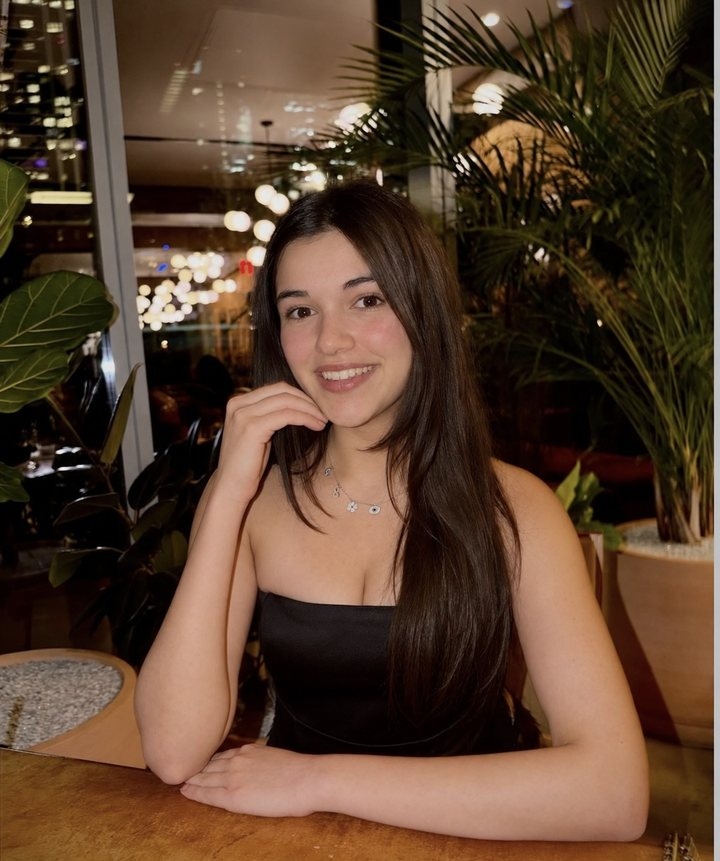
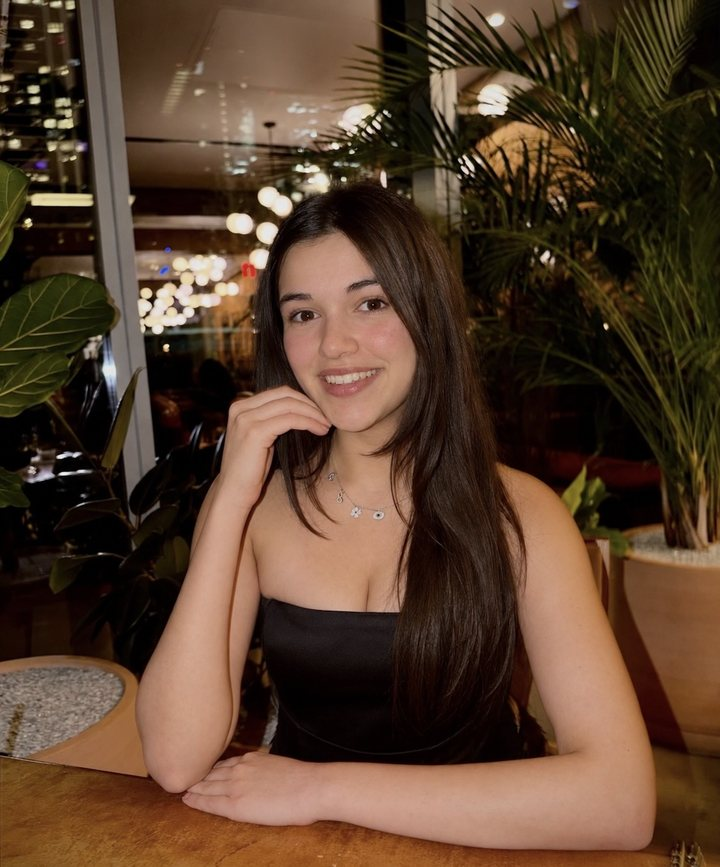
T.D. looks like the real one, seamless makeup before/after with a zoom wand, real sunglasses photo
- T.D. redrawn from photos: fluffy tufted honey-gold coat, beige felt ears, muzzle and pads, little brown bow
- Makeup before/after: the glam shot is scaled to match exactly, so only the makeup changes
- A second wand zooms in on my face and back out
- Sunglasses use the real Chanel photo instead of the drawing

diff --git a/items.js b/items.js
@@ -341,15 +341,7 @@ window.ITEMS = [
     },
     {
         id: 'sunglasses', name: 'my chanel sunglasses', zip: 'shades', l: 84.6, t: 3.8, w: 13.2, r: -6,
-        art: `<svg viewBox="0 0 250 106"><defs><linearGradient id="lens2" x1="0" y1="0" x2="0" y2="1"><stop offset="0" stop-color="#2E1812"/><stop offset=".5" stop-color="#5E3020"/><stop offset="1" stop-color="#B26E48"/></linearGradient></defs>
-            <!-- square black frames, a thin cream edge all the way round, brown gradient lenses, the cream CC on each arm -->
-            <path d="M8 18 Q8 10 16 10 H104 Q112 10 112 18 V86 Q112 96 102 96 H18 Q8 96 8 86Z" fill="#EFE3CF" stroke="#3A2626" stroke-width="1.6"/><path d="M138 18 Q138 10 146 10 H234 Q242 10 242 18 V86 Q242 96 232 96 H148 Q138 96 138 86Z" fill="#EFE3CF" stroke="#3A2626" stroke-width="1.6"/>
-            <path d="M106 18 Q125 30 144 18 V54 Q125 46 106 54Z" fill="#EFE3CF" stroke="#3A2626" stroke-width="1.6"/>
-            <g fill="#141010"><path d="M8 18 Q8 10 16 10 H104 Q112 10 112 18 V86 Q112 96 102 96 H18 Q8 96 8 86Z" transform="translate(60 53) scale(.955 .94) translate(-60 -53)"/><path d="M138 18 Q138 10 146 10 H234 Q242 10 242 18 V86 Q242 96 232 96 H148 Q138 96 138 86Z" transform="translate(190 53) scale(.955 .94) translate(-190 -53)"/><path d="M104 22 Q125 34 146 22 V51 Q125 44 104 51Z"/></g>
-            <path d="M23 30 Q23 24 29 24 H91 Q97 24 97 30 V76 Q97 82 91 82 H29 Q23 82 23 76Z" fill="url(#lens2)"/><path d="M153 30 Q153 24 159 24 H221 Q227 24 227 30 V76 Q227 82 221 82 H159 Q153 82 153 76Z" fill="url(#lens2)"/>
-            <g transform="translate(16 20)"><g fill="none" stroke="#EFE3CF" stroke-width="2" stroke-linecap="round"><path d="M-1 -4 A4.2 4.2 0 1 0 -1 4"/><path d="M1 -4 A4.2 4.2 0 1 1 1 4"/></g></g><g transform="translate(234 20)"><g fill="none" stroke="#EFE3CF" stroke-width="2" stroke-linecap="round"><path d="M-1 -4 A4.2 4.2 0 1 0 -1 4"/><path d="M1 -4 A4.2 4.2 0 1 1 1 4"/></g></g>
-            <path d="M28 30 L56 30 L38 52Z M158 30 L186 30 L168 52Z" fill="#fff" opacity=".12"/>
-            <path d="M16 16 Q40 13 74 14 M146 16 Q170 13 204 14" stroke="#fff" stroke-width="2" fill="none" opacity=".22" stroke-linecap="round"/></svg>`,
+        art: `<img src="assets/img/sunglasses.png" alt="" draggable="false" style="display:block; width:100%; height:auto">`,
         open: 'sunglasses'
     },
     {
@@ -538,20 +530,19 @@ window.ITEMS = [
     },
     {
         id: 'bear', name: 'T.D., my teddy bear', zip: 'main', l: 0, t: 0, w: 19, r: -6,
-        art: `<svg viewBox="0 0 200 222"><defs><radialGradient id="td-coat" cx=".38" cy=".3" r=".8"><stop offset="0" stop-color="#F0C98C"/><stop offset=".55" stop-color="#D8A564"/><stop offset="1" stop-color="#B9823F"/></radialGradient></defs>
-            <!-- T.D.: smooth and polished, one clean outline around the whole bear -->
-            <g id="td-shape"><circle cx="54" cy="40" r="19"/><circle cx="146" cy="40" r="19"/><ellipse cx="44" cy="146" rx="20" ry="34" transform="rotate(32 44 146)"/><ellipse cx="158" cy="140" rx="20" ry="34" transform="rotate(-40 158 140)"/><ellipse cx="100" cy="160" rx="54" ry="48"/><ellipse cx="66" cy="194" rx="25" ry="22"/><ellipse cx="138" cy="190" rx="25" ry="22"/><circle cx="100" cy="80" r="54"/></g>
-            <use href="#td-shape" fill="#D8A564" stroke="#3A2626" stroke-width="5"/><use href="#td-shape" fill="url(#td-coat)"/>
-            <circle cx="54" cy="40" r="10" fill="#E9DCC6"/><circle cx="146" cy="40" r="10" fill="#E9DCC6"/>
-            <path d="M58 142 q10 6 18 2 M142 136 q-10 6 -18 2" fill="none" stroke="#B9823F" stroke-width="2" stroke-linecap="round" opacity=".7"/>
-            <ellipse cx="62" cy="198" rx="16" ry="14" fill="#E9DCC6" stroke="#B9823F" stroke-width="1.6"/><ellipse cx="142" cy="194" rx="16" ry="14" fill="#E9DCC6" stroke="#B9823F" stroke-width="1.6"/>
-            <ellipse cx="100" cy="98" rx="26" ry="18" fill="#EFE3CF" stroke="#B9823F" stroke-width="1.6"/>
-            <ellipse cx="100" cy="89" rx="7" ry="6" fill="#1A1210"/><ellipse cx="98" cy="87" rx="2.4" ry="1.4" fill="#fff" opacity=".6"/>
-            <path d="M100 95 v8 M88 104 q12 9 24 0" fill="none" stroke="#1A1210" stroke-width="2.2" stroke-linecap="round"/>
-            <circle cx="83" cy="70" r="5" fill="#120C0A"/><circle cx="117" cy="70" r="5" fill="#120C0A"/><circle cx="84.6" cy="68.4" r="1.5" fill="#fff"/><circle cx="118.6" cy="68.4" r="1.5" fill="#fff"/>
-            <ellipse cx="74" cy="90" rx="7" ry="4" fill="#F2A7A0" opacity=".35"/><ellipse cx="126" cy="90" rx="7" ry="4" fill="#F2A7A0" opacity=".35"/>
-            <path d="M68 46 q12 -14 30 -14" fill="none" stroke="#FFF3DC" stroke-width="5" stroke-linecap="round" opacity=".45"/><path d="M62 132 q4 -10 14 -14" fill="none" stroke="#FFF3DC" stroke-width="4" stroke-linecap="round" opacity=".35"/>
-            <path d="M100 122 c-14 -10 -24 -4 -22 4 c2 8 12 8 22 -4 c10 12 20 12 22 4 c2 -8 -8 -14 -22 -4z" fill="#4A2A1C" stroke="#2A1610" stroke-width="1.4"/><circle cx="100" cy="122" r="4" fill="#3A2016"/><path d="M98 125 l-6 14 M102 125 l6 13" stroke="#4A2A1C" stroke-width="4" stroke-linecap="round"/></svg>`,
+        art: `<svg viewBox="0 0 200 222"><defs><radialGradient id="td-coat" cx=".4" cy=".3" r=".85"><stop offset="0" stop-color="#EDC487"/><stop offset=".6" stop-color="#D6A465"/><stop offset="1" stop-color="#B9864A"/></radialGradient></defs>
+            <!-- T.D., from the real one: shaggy honey-gold coat (clean tufted edge), beige felt ears, muzzle and foot pads, little brown bow -->
+            <ellipse cx="50" cy="34" rx="17" ry="18" fill="#E2D2BC" stroke="#3A2626" stroke-width="4"/><ellipse cx="150" cy="34" rx="17" ry="18" fill="#E2D2BC" stroke="#3A2626" stroke-width="4"/>
+            <g id="td-shape"><path d="M63.6 157.8 Q64.1 165.9 54.0 162.6 Q49.0 167.6 41.1 161.9 Q32.6 164.3 28.5 155.9 Q19.3 153.4 19.5 146.2 Q10.5 140.4 16.6 135.3 Q12.3 127.8 20.4 126.2 Q19.9 118.1 30.0 121.4 Q35.0 116.4 42.9 122.1 Q51.4 119.7 55.5 128.1 Q64.7 130.6 64.5 137.8 Q73.5 143.6 67.4 148.7 Q71.7 156.2 63.6 157.8Z"/><path d="M183.4 134.9 Q188.8 140.4 179.5 145.7 Q179.0 153.2 169.8 155.1 Q165.0 163.3 156.9 160.4 Q148.7 165.6 144.4 160.2 Q134.2 162.9 135.4 154.6 Q127.7 152.5 132.6 145.1 Q127.2 139.6 136.5 134.3 Q137.0 126.8 146.2 124.9 Q151.0 116.7 159.1 119.6 Q167.3 114.4 171.6 119.8 Q181.8 117.1 180.6 125.4 Q188.3 127.5 183.4 134.9Z"/><path d="M152.0 160.0 Q160.8 167.1 150.2 171.9 Q154.3 179.9 145.0 183.0 Q148.7 193.0 136.8 192.5 Q135.8 201.2 126.0 199.8 Q123.5 210.1 113.5 204.4 Q107.7 211.5 100.0 206.0 Q92.0 213.8 86.5 204.4 Q77.5 208.0 74.0 199.8 Q62.6 203.1 63.2 192.5 Q53.4 191.6 55.0 183.0 Q43.3 180.8 49.8 171.9 Q41.7 166.8 48.0 160.0 Q39.2 152.9 49.8 148.1 Q45.7 140.1 55.0 137.0 Q51.3 127.0 63.2 127.5 Q64.2 118.8 74.0 120.2 Q76.5 109.9 86.5 115.6 Q92.3 108.5 100.0 114.0 Q108.0 106.2 113.5 115.6 Q122.5 112.0 126.0 120.2 Q137.4 116.9 136.8 127.5 Q146.6 128.4 145.0 137.0 Q156.7 139.2 150.2 148.1 Q158.3 153.2 152.0 160.0Z"/><path d="M88.7 193.6 Q93.4 200.1 85.2 203.2 Q85.4 210.2 77.6 211.0 Q75.2 218.6 67.4 215.4 Q61.7 220.5 56.2 215.8 Q48.3 219.6 46.0 212.1 Q38.3 211.9 38.6 204.9 Q30.5 202.3 35.2 195.5 Q30.5 190.1 36.5 185.5 Q33.5 178.2 42.2 176.6 Q43.6 169.6 51.3 170.4 Q55.4 163.2 62.2 167.9 Q68.9 163.9 73.1 169.6 Q81.7 167.3 82.1 175.2 Q89.6 176.8 87.6 183.6 Q94.9 187.7 88.7 193.6Z"/><path d="M165.8 195.9 Q169.1 203.4 160.5 204.5 Q159.3 211.4 151.6 210.2 Q147.8 217.2 140.7 212.1 Q134.3 215.7 129.7 209.8 Q121.3 211.7 120.5 203.8 Q113.0 201.7 114.7 195.0 Q107.2 190.5 113.2 185.0 Q109.6 178.6 116.4 175.5 Q114.8 167.7 123.6 168.2 Q126.3 161.7 133.7 164.3 Q139.1 158.3 144.9 164.5 Q152.1 162.2 155.2 168.8 Q164.0 168.6 162.9 176.4 Q169.9 179.8 166.6 186.0 Q173.0 191.7 165.8 195.9Z"/><path d="M159.7 85.4 Q168.7 92.8 157.2 96.4 Q161.5 104.3 152.1 106.8 Q157.0 116.9 144.8 115.9 Q145.2 124.8 135.5 123.5 Q135.4 134.6 124.7 129.2 Q121.1 137.4 112.8 132.8 Q107.7 142.8 100.3 134.0 Q93.3 140.2 87.8 132.9 Q78.6 140.2 75.9 129.4 Q66.7 132.5 65.0 123.8 Q53.3 127.2 55.6 116.3 Q45.8 115.8 48.2 107.2 Q36.0 106.0 43.0 96.9 Q34.3 92.9 40.4 85.9 Q29.8 80.3 40.3 74.6 Q34.2 67.7 42.8 63.6 Q35.7 54.6 47.9 53.2 Q45.4 44.7 55.2 44.1 Q52.8 33.2 64.5 36.5 Q66.1 27.8 75.3 30.8 Q78.0 20.0 87.2 27.2 Q92.7 19.9 99.7 26.0 Q107.0 17.1 112.2 27.1 Q120.5 22.4 124.1 30.6 Q134.8 25.1 135.0 36.2 Q144.7 34.9 144.4 43.7 Q156.6 42.6 151.8 52.8 Q161.3 55.1 157.0 63.1 Q168.6 66.6 159.6 74.1 Q167.2 79.7 159.7 85.4Z"/></g>
+            <use href="#td-shape" fill="#D6A465" stroke="#3A2626" stroke-width="5" stroke-linejoin="round"/><use href="#td-shape" fill="url(#td-coat)"/>
+            <g fill="none" stroke="#B9864A" stroke-width="1.8" stroke-linecap="round" opacity=".55"><path d="M70 44 q4 -6 8 -3"/><path d="M96 32 q4 -7 8 -4"/><path d="M122 40 q4 -6 8 -3"/><path d="M64 64 q-4 -4 -8 -1"/><path d="M134 62 q4 -4 8 -1"/><path d="M80 146 q4 -5 8 -2"/><path d="M110 140 q4 -5 8 -2"/><path d="M96 168 q4 -5 8 -2"/><path d="M124 170 q4 -5 8 -2"/><path d="M74 176 q4 -4 8 -1"/><path d="M24 132 q4 -4 8 -1"/><path d="M160 128 q4 -4 8 -1"/><path d="M46 138 q4 -5 8 -2"/></g>
+            <ellipse cx="58" cy="196" rx="16" ry="19" fill="#E2D2BC" stroke="#C4B095" stroke-width="1.6" transform="rotate(-14 58 196)"/><ellipse cx="144" cy="192" rx="16" ry="19" fill="#E2D2BC" stroke="#C4B095" stroke-width="1.6" transform="rotate(14 144 192)"/>
+            <ellipse cx="100" cy="99" rx="27" ry="20" fill="#E8DAC6" stroke="#C4B095" stroke-width="1.6"/>
+            <path d="M93 89 q7 -3 14 0 q-1 7 -7 10 q-6 -3 -7 -10z" fill="#1E1614"/><path d="M96 89.6 q3 -1 5 0" stroke="#fff" stroke-width="1.2" stroke-linecap="round" opacity=".5"/>
+            <path d="M100 99 v5 M86 102 q14 11 28 0" fill="none" stroke="#1E1614" stroke-width="2" stroke-linecap="round"/>
+            <circle cx="85" cy="76" r="4.6" fill="#120C0A"/><circle cx="115" cy="76" r="4.6" fill="#120C0A"/><circle cx="86.4" cy="74.6" r="1.4" fill="#fff"/><circle cx="116.4" cy="74.6" r="1.4" fill="#fff"/>
+            <path d="M74 50 q12 -12 28 -13" fill="none" stroke="#FFF1D6" stroke-width="7" stroke-linecap="round" opacity=".18"/>
+            <g transform="translate(102 125) scale(1.35) rotate(-8) translate(-102 -124)"><path d="M102 124 c-10 -8 -18 -3 -16 3 c2 6 10 6 16 -3 c6 9 14 9 16 3 c2 -6 -6 -11 -16 -3z" fill="#4B2E24" stroke="#2A1610" stroke-width="1.3"/><circle cx="102" cy="124" r="3.2" fill="#3A2018"/><path d="M100 126 l-4 9 M104 126 l4 8" stroke="#4B2E24" stroke-width="3.2" stroke-linecap="round"/></g></svg>`,
         open: 'bear'
     },
     {

diff --git a/app.js b/app.js
@@ -1438,7 +1438,8 @@ const VIEWS = {
                 <span class="bbb-tag mono" id="bbb-tag">before</span>
                 <div class="bbb-dust" id="bbb-dust" aria-hidden="true"></div>
             </div>
-            <button type="button" class="btn solid bbb-wand" id="bbb-wand"><svg viewBox="0 0 24 24" aria-hidden="true"><path d="M4 20 L14 10" stroke="currentColor" stroke-width="2.4" stroke-linecap="round"/><path d="M17 3 l1.1 2.9 2.9 1.1 -2.9 1.1 -1.1 2.9 -1.1 -2.9 -2.9 -1.1 2.9 -1.1Z" fill="currentColor"/></svg><span id="bbb-word">bibbidi bobbidi boo</span></button>
+            <div class="bbb-btns"><button type="button" class="btn solid bbb-wand" id="bbb-wand"><svg viewBox="0 0 24 24" aria-hidden="true"><path d="M4 20 L14 10" stroke="currentColor" stroke-width="2.4" stroke-linecap="round"/><path d="M17 3 l1.1 2.9 2.9 1.1 -2.9 1.1 -1.1 2.9 -1.1 -2.9 -2.9 -1.1 2.9 -1.1Z" fill="currentColor"/></svg><span id="bbb-word">bibbidi bobbidi boo</span></button>
+            <button type="button" class="btn bbb-zoom" id="bbb-zoom" aria-pressed="false"><svg viewBox="0 0 24 24" aria-hidden="true"><path d="M4 20 L14 10" stroke="currentColor" stroke-width="2.4" stroke-linecap="round"/><path d="M17 3 l1.1 2.9 2.9 1.1 -2.9 1.1 -1.1 2.9 -1.1 -2.9 -2.9 -1.1 2.9 -1.1Z" fill="currentColor"/></svg><span id="bbb-zword">zoom in</span></button></div>
             <p class="bbb-cap hand" aria-live="polite">pretty both ways, right?</p>
         </div>
 `,
@@ -1919,11 +1920,14 @@ function cardHTML(c, i) {
 /* ---------- what happens right after something opens ---------- */
 const AFTER = {
     haircomb: () => {
-        // drag the comb down: everything above it is combed, everything below is still frizz
+        // drag the comb down: everything above it is combed, everything below is still frizz.
+        // the comb only goes one way: combed hair never frizzes back up
         const hair = $('#hair'), comb = $('#hair-comb');
-        let done = false, drag = false;
+        let done = false, drag = false, combed = 0;
         const set = f => {
-            f = Math.max(0, Math.min(1, f));
+            f = Math.max(combed, Math.max(0, Math.min(1, f)));
+            if (f > .97) f = 1;
+            combed = f;
             hair.style.setProperty('--comb', f);
             $('#hair-tag').textContent = f > .97 ? 'after' : f < .03 ? 'before' : 'combing…';
             if (f > .97 && !done) { done = true; $('#hair-note').textContent = 'see? smooth. the comb stays in the bag.'; $('#hair-braid').hidden = false; }
@@ -1935,7 +1939,7 @@ const AFTER = {
         const end = () => { drag = false; hair.classList.remove('dragging'); };
         hair.addEventListener('pointerup', end); hair.addEventListener('pointercancel', end);
         comb.onkeydown = e => { if (e.key === 'ArrowDown' || e.key === 'ArrowUp') { e.preventDefault(); set((+hair.style.getPropertyValue('--comb') || 0) + (e.key === 'ArrowDown' ? .1 : -.1)); } };
-        comb.onclick = e => { if (e.detail) return; set((+hair.style.getPropertyValue('--comb') || 0) > .5 ? 0 : 1); };
+        comb.onclick = e => { if (e.detail) return; set(1); };
         // combed out, then one long braid for bed. while it's braided the comb stays put.
         $('#hair-braid').onclick = () => {
             const on = hair.classList.toggle('braided');
@@ -2634,6 +2638,12 @@ const AFTER = {
         });
         // bibbidi bobbidi boo: a wave of the wand, a burst of sparkles, and everything in the pouch is on. wave again to take it off.
         const bbb = $('#bbb'), dust = $('#bbb-dust');
+        // the second wand zooms in on my face so you can actually see the makeup, then back out
+        if (bbb) $('#bbb-zoom').onclick = () => {
+            const z = bbb.classList.toggle('zoom');
+            $('#bbb-zword').textContent = z ? 'zoom out' : 'zoom in';
+            $('#bbb-zoom').setAttribute('aria-pressed', z);
+        };
         if (bbb) $('#bbb-wand').onclick = () => {
             const on = bbb.classList.toggle('after');
             $('#bbb-tag').textContent = on ? 'after' : 'before';

diff --git a/style.css b/style.css
@@ -2388,7 +2388,7 @@ dialog.sheet:has(.skin-layout) { width: min(1180px, calc(100vw - 24px)); }
 
 /* makeup pouch: bibbidi bobbidi boo, before and after */
 .bbb { display: flex; flex-direction: column; align-items: center; gap: 14px; margin: 4px auto 8px; }
-.bbb-photo { position: relative; width: min(300px, 82%); aspect-ratio: 720 / 861; border-radius: 18px; overflow: hidden; border: 3px solid var(--ink); box-shadow: 6px 6px 0 var(--rose); background: var(--plum-deep); }
+.bbb-photo { position: relative; width: min(300px, 82%); aspect-ratio: 720 / 867; border-radius: 18px; overflow: hidden; border: 3px solid var(--ink); box-shadow: 6px 6px 0 var(--rose); background: var(--plum-deep); }
 .bbb-photo img { position: absolute; inset: 0; width: 100%; height: 100%; object-fit: cover; transition: opacity .5s .25s, filter .5s .25s; }
 .bbb-after { opacity: 0; }
 .bbb.after .bbb-after { opacity: 1; }
@@ -2403,7 +2403,10 @@ dialog.sheet:has(.skin-layout) { width: min(1180px, calc(100vw - 24px)); }
     25% { opacity: 1; }
     100% { opacity: 0; transform: translate(calc(var(--x) * 3), calc(var(--y) * 3)) scale(var(--s)) rotate(180deg); }
 }
-.bbb-wand { display: inline-flex; align-items: center; gap: 8px; }
+.bbb-wand, .bbb-zoom { display: inline-flex; align-items: center; gap: 8px; }
+.bbb-zoom svg { width: 16px; height: 16px; }
+.bbb-photo img { transform-origin: 48% 37%; transition: opacity .5s .25s, filter .5s .25s, transform .8s var(--ease); }
+.bbb.zoom .bbb-photo img { transform: scale(2.4); }
 .bbb-wand svg { width: 18px; height: 18px; transition: transform .4s var(--ease); }
 .bbb-wand:hover svg, .bbb.poof .bbb-wand svg { transform: rotate(-24deg); }
 .bbb-cap { margin: 0; font-size: 1.6rem; color: var(--plum); text-align: center; }
@@ -2423,3 +2426,4 @@ dialog.sheet:has(.skin-layout) { width: min(1180px, calc(100vw - 24px)); }
 .hair.braided .hair-comb { opacity: 0; pointer-events: none; }
 .hair-comb { transition: top .5s var(--ease), opacity .4s; }
 .hair-tag { position: absolute; left: 10px; top: 10px; padding: 3px 9px; border-radius: 99px; background: rgba(255, 251, 248, .88); color: var(--plum); font-size: .72rem; letter-spacing: .12em; text-transform: uppercase; }
+.bbb-btns { display: flex; flex-wrap: wrap; justify-content: center; gap: 10px; }
